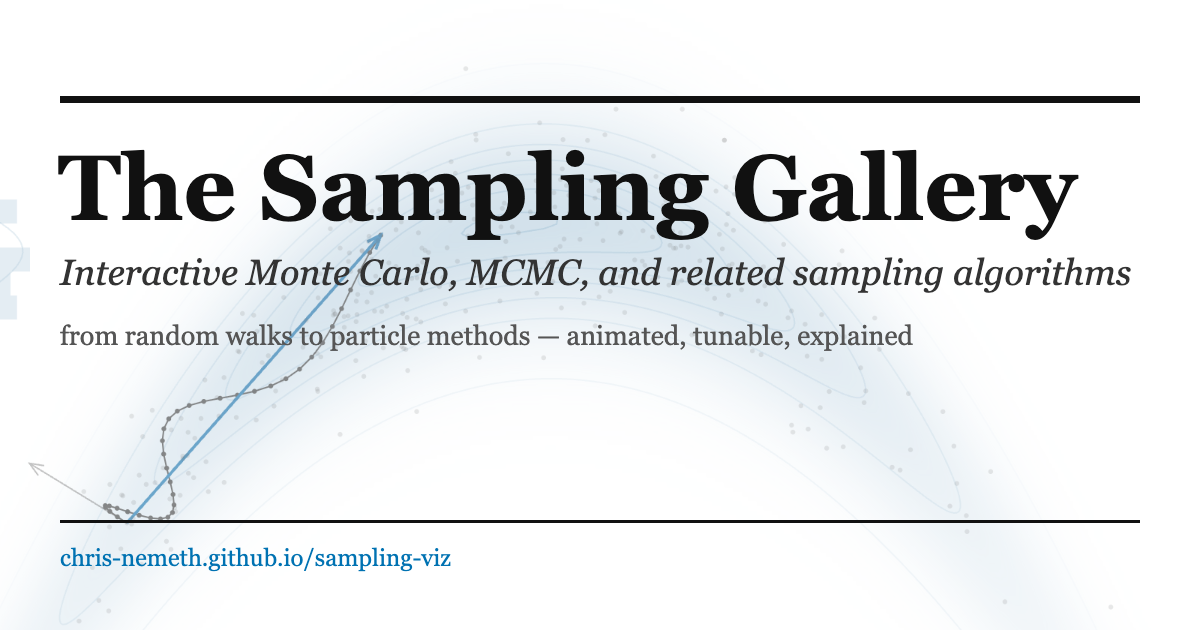
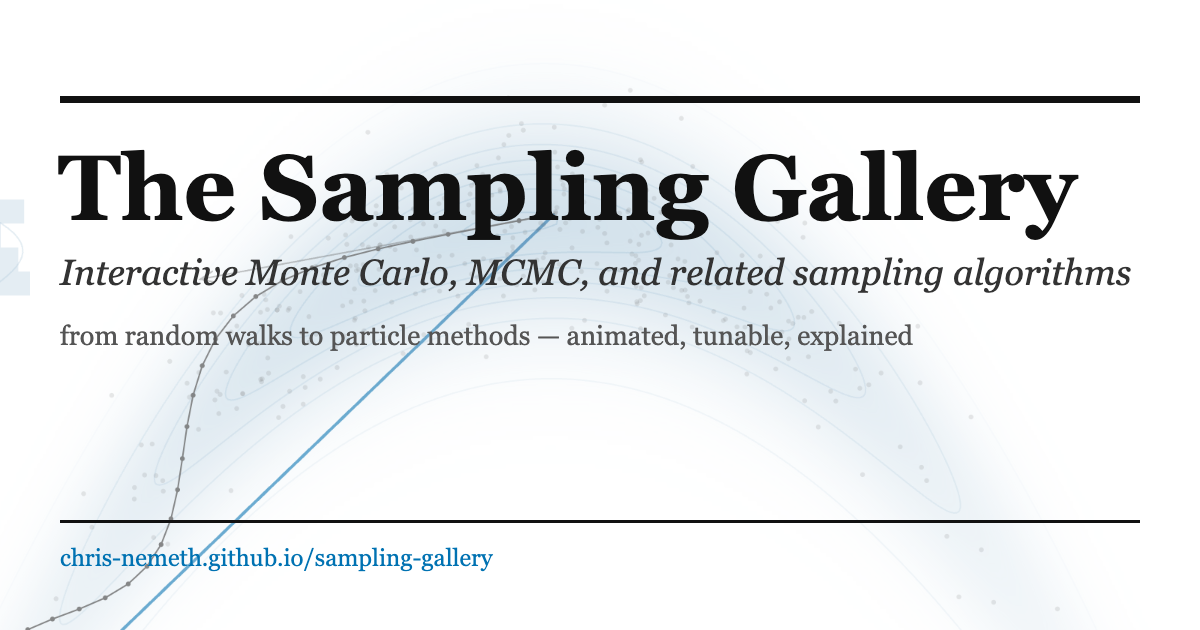
Rename to sampling-gallery: update all URLs and the social card
The repo is now chris-nemeth/sampling-gallery and the site lives at
chris-nemeth.github.io/sampling-gallery. All og:url/og:image tags,
README links and the classic.html footer updated; the social card
regenerated with the new URL in its footer text.

diff --git a/index.html b/index.html
@@ -9,8 +9,8 @@
 <meta property="og:type" content="website">
 <meta property="og:title" content="The Sampling Gallery">
 <meta property="og:description" content="Interactive Monte Carlo, MCMC, and related sampling algorithms — from random walks to particle methods, animated, tunable, and explained.">
-<meta property="og:image" content="https://chris-nemeth.github.io/sampling-viz/docs/og-card.png">
-<meta property="og:url" content="https://chris-nemeth.github.io/sampling-viz/">
+<meta property="og:image" content="https://chris-nemeth.github.io/sampling-gallery/docs/og-card.png">
+<meta property="og:url" content="https://chris-nemeth.github.io/sampling-gallery/">
 <meta name="twitter:card" content="summary_large_image">
 <link rel="stylesheet" href="styles.css">
 <style>
@@ -254,7 +254,7 @@
   </section>
   <footer style="border-top:1px solid var(--color-divider);margin-top:56px;padding-top:16px;display:flex;justify-content:space-between;font-size:12px;color:var(--color-neutral-600)">
     <span>Redesigned in the Broadsheet system. <a href="classic.html">Classic interface</a></span>
-    <span>Source: <a href="https://github.com/chris-nemeth/sampling-viz">github.com/chris-nemeth/sampling-viz</a> · after <a href="https://github.com/chi-feng/mcmc-demo">chi-feng/mcmc-demo</a></span>
+    <span>Source: <a href="https://github.com/chris-nemeth/sampling-gallery">github.com/chris-nemeth/sampling-gallery</a> · after <a href="https://github.com/chi-feng/mcmc-demo">chi-feng/mcmc-demo</a></span>
   </footer>
 </div>
 </body>

diff --git a/notes.html b/notes.html
@@ -9,8 +9,8 @@
 <meta property="og:type" content="website">
 <meta property="og:title" content="Field Notes — The Sampling Gallery">
 <meta property="og:description" content="Field notes for every sampler in the gallery: what it does, what to watch while it runs, and which knobs matter.">
-<meta property="og:image" content="https://chris-nemeth.github.io/sampling-viz/docs/og-card.png">
-<meta property="og:url" content="https://chris-nemeth.github.io/sampling-viz/notes.html">
+<meta property="og:image" content="https://chris-nemeth.github.io/sampling-gallery/docs/og-card.png">
+<meta property="og:url" content="https://chris-nemeth.github.io/sampling-gallery/notes.html">
 <meta name="twitter:card" content="summary_large_image">
 <link rel="stylesheet" href="styles.css">
 <style>
@@ -58,7 +58,7 @@
   <nav class="toc" id="toc"></nav>
   <div id="notes"></div>
 
-  <footer>Part of <a href="index.html">The Sampling Gallery</a>. Notes are plain markdown — corrections and improvements welcome on <a href="https://github.com/chris-nemeth/sampling-viz">GitHub</a>.</footer>
+  <footer>Part of <a href="index.html">The Sampling Gallery</a>. Notes are plain markdown — corrections and improvements welcome on <a href="https://github.com/chris-nemeth/sampling-gallery">GitHub</a>.</footer>
 </div>
 
 <script src="lib/marked.min.js"></script>

diff --git a/classic.html b/classic.html
@@ -43,7 +43,7 @@ li { margin-bottom: 0.5em; }
     <li><a href="app.html?algorithm=NestedSampling&target=banana">Nested Sampling</a> <a href="#ref-6" class="reference">[6]</a></li>
     <li><a href="app.html?algorithm=EnsembleMCMC&target=banana">Ensemble MCMC (stretch &amp; differential-evolution moves)</a> <a href="#ref-7" class="reference">[7]</a></li>
 </ul>
-<p>View the source code on github: <a href="https://github.com/chris-nemeth/sampling-viz">https://github.com/chris-nemeth/sampling-viz</a> (built from <a href="https://github.com/chi-feng/mcmc-demo">chi-feng/mcmc-demo</a>).</p>
+<p>View the source code on github: <a href="https://github.com/chris-nemeth/sampling-gallery">https://github.com/chris-nemeth/sampling-gallery</a> (built from <a href="https://github.com/chi-feng/mcmc-demo">chi-feng/mcmc-demo</a>).</p>
 <h3>References</h3>
 <div class="references">
 <p id="ref-1">[1] H. Haario, E. Saksman, and J. Tamminen, <a target="_blank" href="http://projecteuclid.org/euclid.bj/1080222083">An adaptive Metropolis algorithm</a> (2001)</p>

diff --git a/sampler.html b/sampler.html
@@ -9,8 +9,8 @@
   <meta property="og:type" content="website" />
   <meta property="og:title" content="The Sampling Gallery — interactive sampler" />
   <meta property="og:description" content="Watch sampling algorithms explore a landscape in real time — proposals, trajectories, gradients and adaptation, live and tunable." />
-  <meta property="og:image" content="https://chris-nemeth.github.io/sampling-viz/docs/og-card.png" />
-  <meta property="og:url" content="https://chris-nemeth.github.io/sampling-viz/sampler.html" />
+  <meta property="og:image" content="https://chris-nemeth.github.io/sampling-gallery/docs/og-card.png" />
+  <meta property="og:url" content="https://chris-nemeth.github.io/sampling-gallery/sampler.html" />
   <meta name="twitter:card" content="summary_large_image" />
   <link rel="stylesheet" href="styles.css" />
   <style>

diff --git a/README.md b/README.md
@@ -5,7 +5,7 @@
   </picture>
 </p>
 
-**Live demo: https://chris-nemeth.github.io/sampling-viz/**
+**Live demo: https://chris-nemeth.github.io/sampling-gallery/**
 
 ![Hamiltonian Monte Carlo exploring the banana target](docs/hero.png)
 
